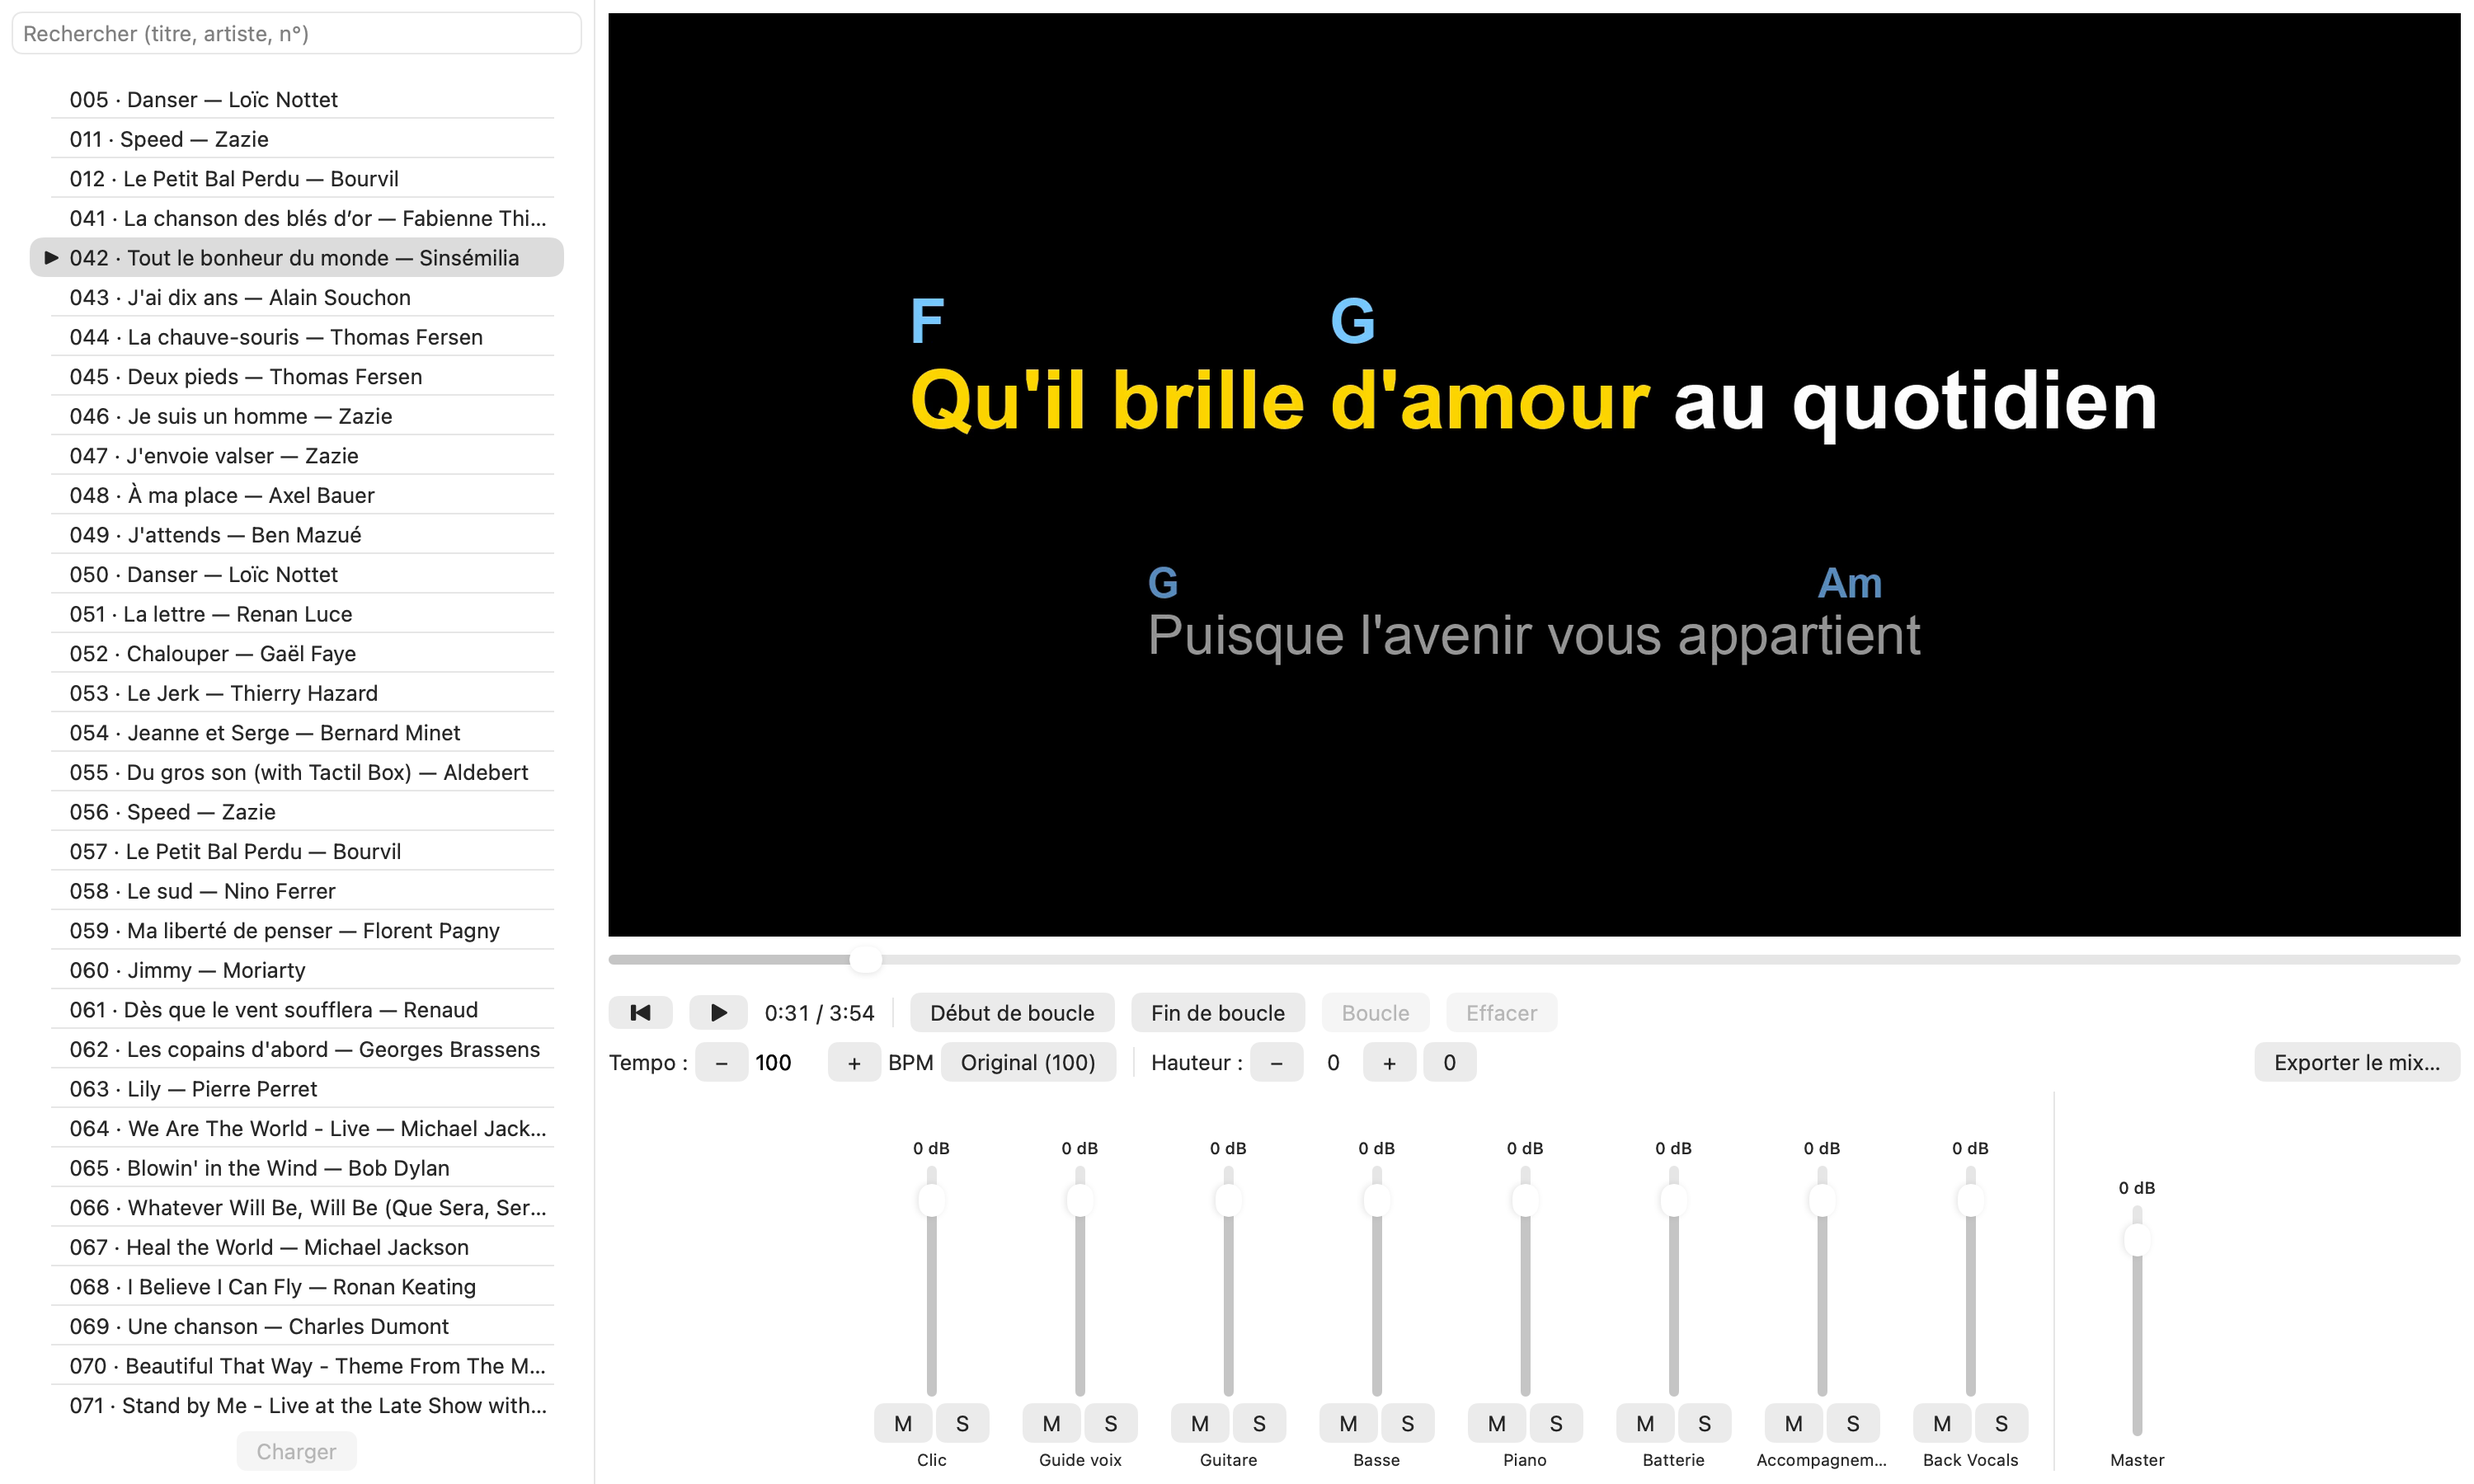
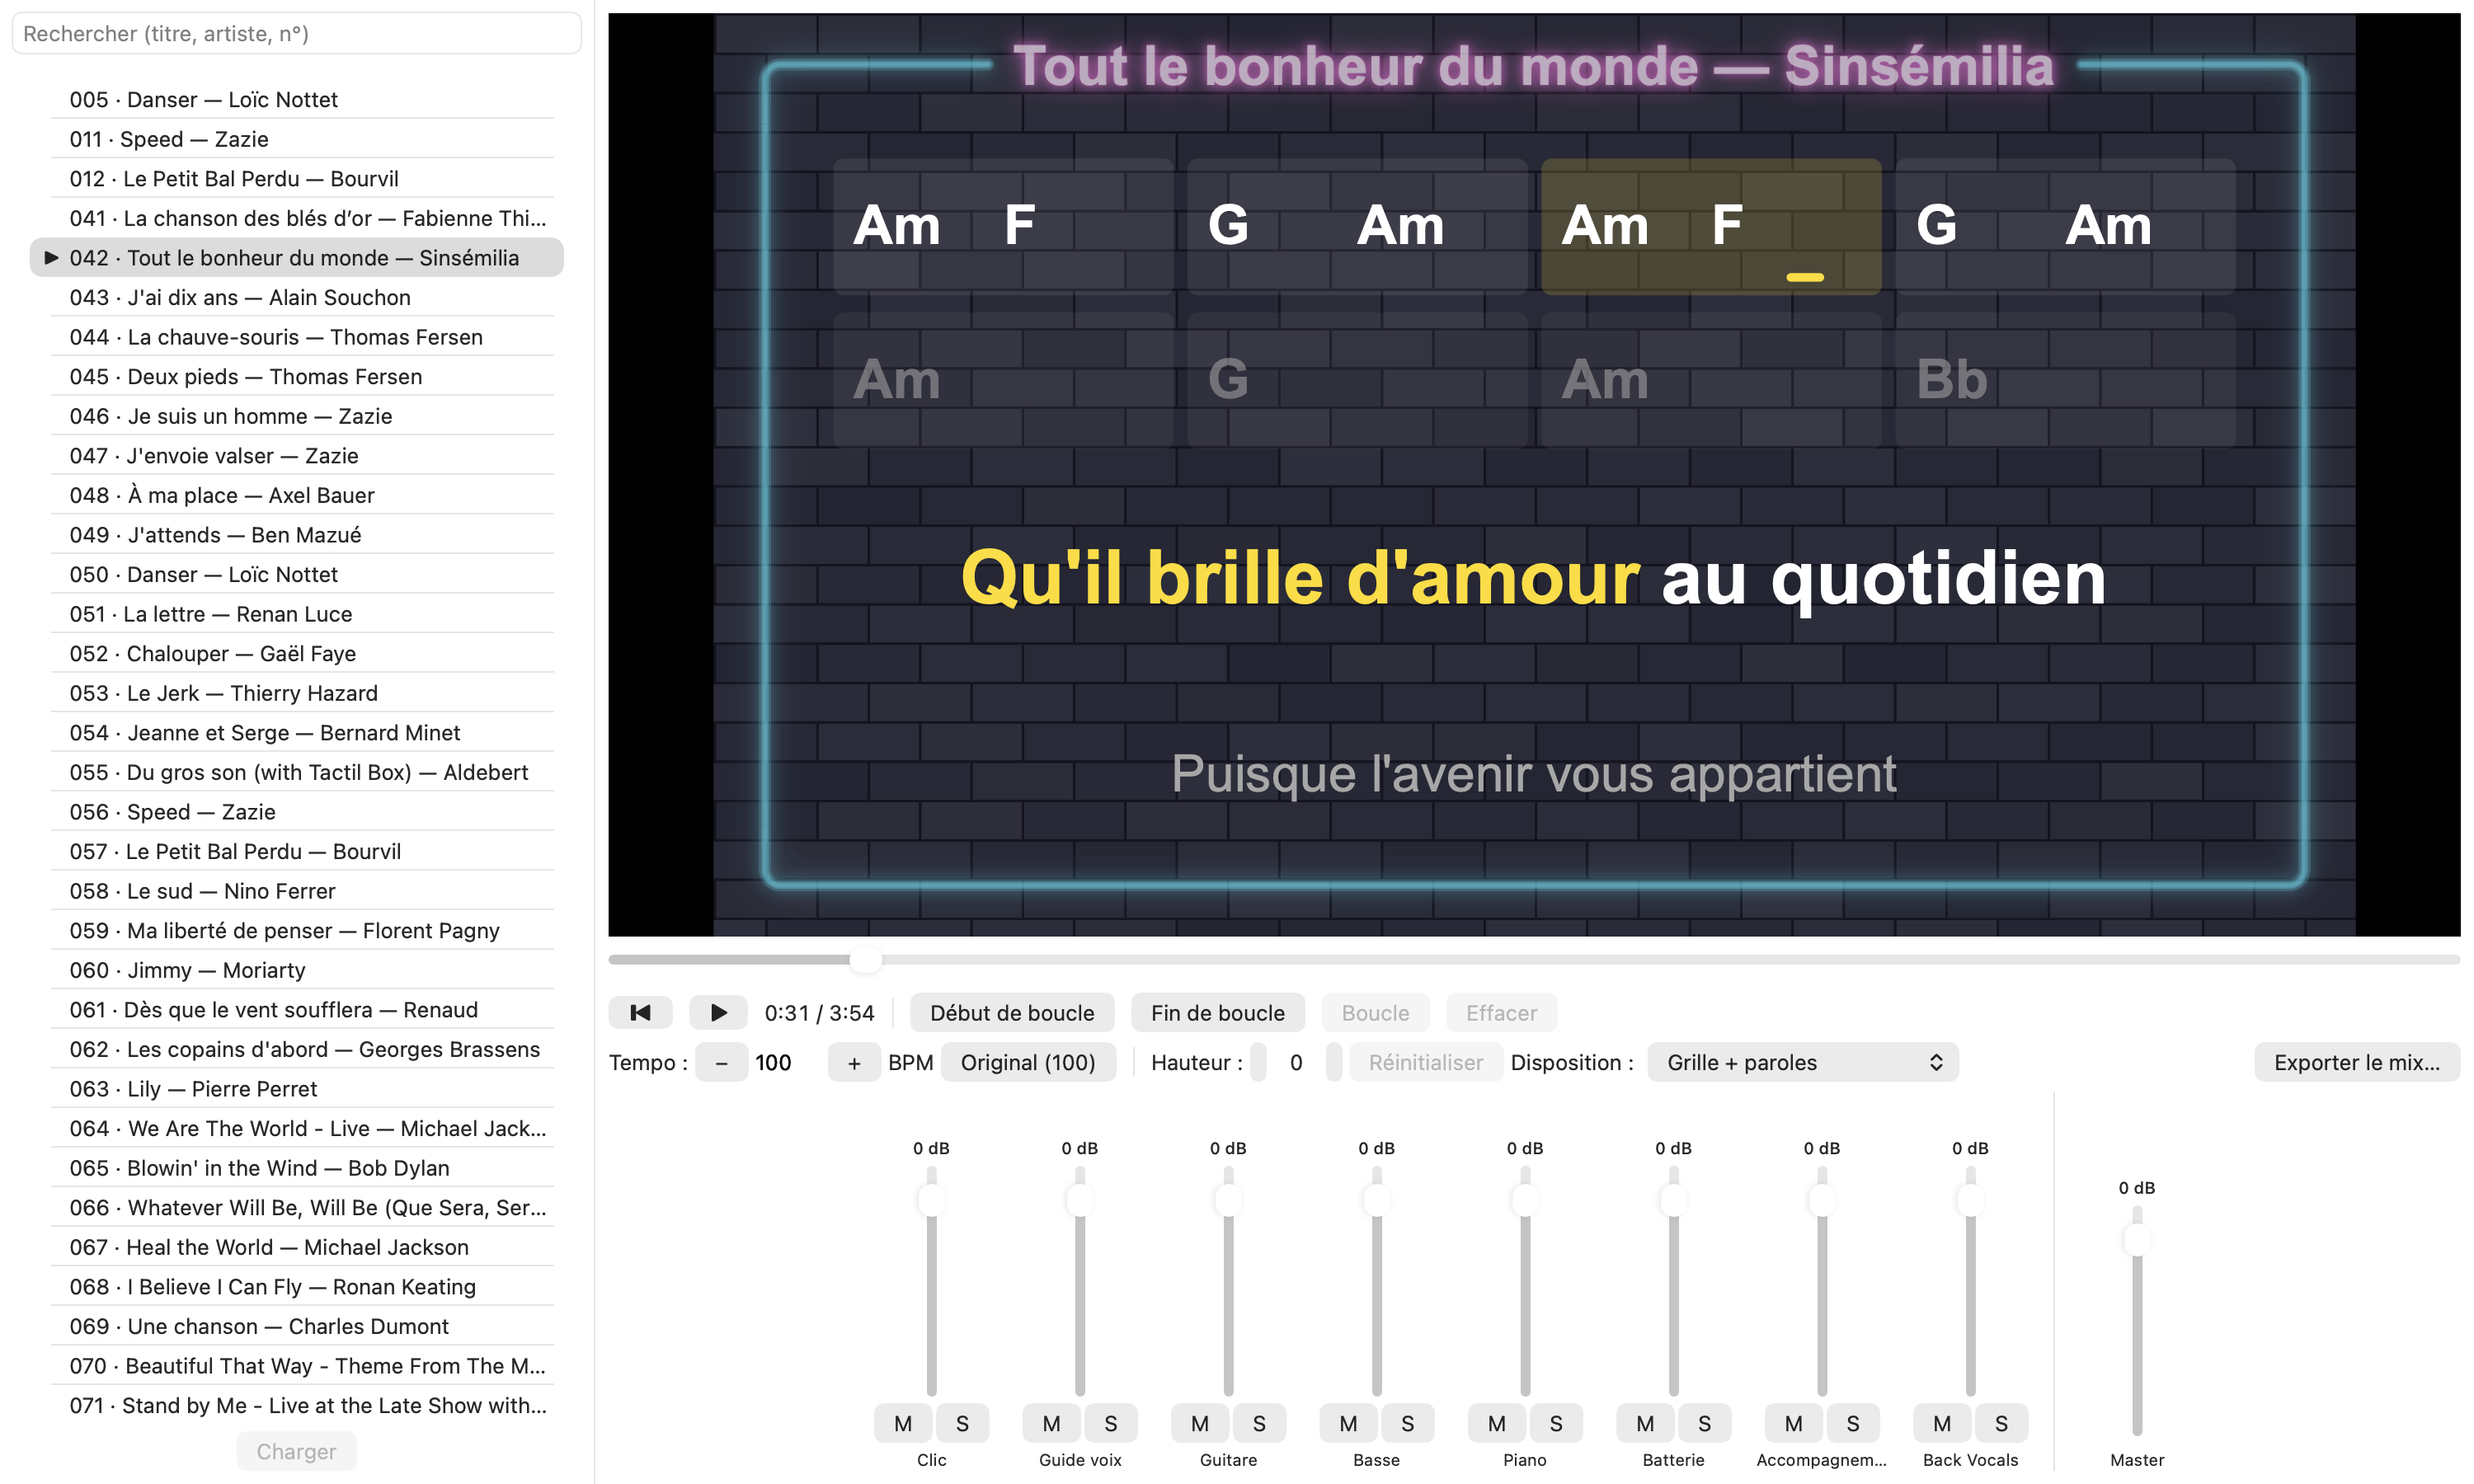
karaifyer: video layout menu in the Karaoké tab; docs; guide screenshot with the live video

diff --git a/karaifyer/Sources/Karaifyer/KaraokeView.swift b/karaifyer/Sources/Karaifyer/KaraokeView.swift
@@ -91,6 +91,12 @@ struct KaraokeView: View {
                         .labelStyle(.iconOnly).buttonStyle(.borderless)
                 }
             }
+            Picker("Vidéo :", selection: $model.videoLayout) {
+                Text("Grille + paroles").tag("grille")
+                Text("Accords sur les paroles").tag("paroles")
+            }
+            .fixedSize()
+            .help("Disposition des vidéos rendues par l'analyse (paroles.mp4, sets Ableton) ; en changer refait les vidéos à la prochaine analyse")
             Button("Rapport") { open(model.pipeline.karaokeHome + "/rapport.html") }
             Button("iReal Pro") {
                 let dir = model.pipeline.karaokeHome + "/ireal"

diff --git a/karaifyer/Sources/Karaifyer/KaraokeModel.swift b/karaifyer/Sources/Karaifyer/KaraokeModel.swift
@@ -14,6 +14,10 @@ final class KaraokeModel: RunDriver {
     var selection: Set<String> = []
     /// The table's search and column sort (click a header; again to reverse).
     var query = ""
+    /// Layout of the videos the analysis renders (paroles.mp4, used by the Ableton sets); read by Pipeline.env.
+    var videoLayout: String = UserDefaults.standard.string(forKey: "videoLayout") ?? "grille" {
+        didSet { UserDefaults.standard.set(videoLayout, forKey: "videoLayout") }
+    }
     var sortOrder: [KeyPathComparator<SongState>] = [KeyPathComparator(\SongState.id)]
     var displayedSongs: [SongState] { SongList.filtered(songs, query: query).sorted(using: sortOrder) }
     var log: [String] = []

diff --git a/docs/guide/GUIDE.md b/docs/guide/GUIDE.md
@@ -249,6 +249,20 @@ Tu peux aussi déposer un texte brut `paroles/<id>.txt` ; il sera calé automati
 
 ---
 
+## La vidéo des paroles
+
+Un cadre néon cyan sur un mur de briques, le titre et l'artiste en néon rose qui respire doucement (avec un léger
+clignotement de temps en temps) ; le cadre pulse sur chaque temps, plus fort sur le premier temps de la mesure.
+
+- **Grille + paroles** (par défaut) : en haut, **2 lignes de 4 mesures** — la ligne active est toujours en haut, la
+  mesure jouée surlignée et un **curseur** qui avance temps par temps ; quand la ligne se termine, celle du dessous
+  monte et les 4 mesures suivantes apparaissent. En bas, **les paroles seules** : la ligne chantée qui s'allume
+  syllabe par syllabe, la suivante en gris.
+- **Accords sur les paroles** : l'ancienne présentation (accords au-dessus des syllabes, rangée de 4 mesures pendant
+  les instrumentaux), sur le même fond.
+- Le menu **Vidéo** de l'onglet Karaoké choisit la disposition des vidéos rendues par l'analyse (`paroles.mp4`, sets
+  Ableton) ; en changer refait les vidéos à la prochaine analyse.
+
 ## 7 bis. Le Lecteur : répéter et vérifier
 
 L'onglet **Lecteur** joue un morceau analysé avec sa vidéo. C'est le Mac qui joue, sur sa sortie audio
@@ -261,7 +275,10 @@ habituelle, pas la XR18. Il sert à répéter chez soi en coupant sa partie, et 
   - cherche par titre, artiste ou numéro (sans te soucier des accents) ;
   - un clic **sélectionne seulement** ; **double-clic**, **Entrée** ou **Charger** ouvre le morceau ;
   - le morceau ouvert est marqué ▶, et un morceau grisé n'est pas encore prêt (le survol dit ce qui manque).
-- **Vidéo :** double-clic pour le **plein écran**, puis double-clic ou Échap pour en sortir.
+- **Vidéo :** dessinée **en direct**, calée sur le son (tempo, boucle et position suivent aussitôt). Double-clic pour
+  le **plein écran**, puis double-clic ou Échap pour en sortir. Un morceau analysé avant cette version garde l'ancienne
+  vidéo (« Réanalyser pour la vidéo en direct »).
+- **Disposition :** « Grille + paroles » (par défaut) ou « Accords sur les paroles », mémorisée.
 - **Transport :** ⏮ retour au début, ▶/⏸, et la **barre de position** à faire glisser pour aller n'importe où.
   **Espace** lance ou arrête la lecture, sauf pendant que tu tapes dans la recherche.
 - **Boucle :**
@@ -277,7 +294,9 @@ habituelle, pas la XR18. Il sert à répéter chez soi en coupant sa partie, et 
 - **Hauteur :**
   - de −6 à +6 demi-tons, sans changer le tempo ;
   - « Réinitialiser » revient à la tonalité d'origine ;
-  - la vidéo garde les accords d'origine, ce qu'un rappel signale.
+  - les accords de la vidéo suivent la transposition (pratique pour trouver où poser un capodastre) ; rien n'est
+    enregistré ;
+- **Exporter le mix… → Vidéo + master** : la vidéo est dessinée telle qu'affichée (disposition, transposition, tempo).
 - **Mixeur :**
   - une tranche par piste (Clic, Guide voix, Guitare, Basse, Piano, Batterie, Accompagnement, Back Vocals),
     chacune avec un fader (de −∞ à +6 dB), **M** (couper) et **S** (solo) ;

diff --git a/karaoke/README.md b/karaoke/README.md
@@ -54,6 +54,11 @@ Détection automatique : à vérifier à l'oreille. Jiang et BTC nomment 7e, sus
 écrit F#m7) ; madmom ne connaît que majeur/mineur. Le code et le modèle de chaque détecteur sont téléchargés à la
 première utilisation, à une version figée (`~/.cache/karaoke/chords/`).
 
+**Vidéo.** L'étape `video` écrit la scène `sortie/<dossier>/video.json` et la fait dessiner par `karaifyer-render`
+(livré dans Karaifyer.app, chemin passé par `KARAOKE_RENDERER` ; sinon `karaifyer/.build/release/karaifyer-render`).
+`KARAOKE_VIDEO_LAYOUT` = `grille` (défaut) ou `paroles`. Sans le moteur Swift, repli sur l'ancien rendu Python (sans
+animation).
+
 **Grilles ouvertes.** `karaoke grilles telecharger` (Chordonomicon + patadata dans `$KARAOKE_HOME/grilles/`),
 `karaoke grilles lier --feuille <feuille.csv>` (identifiants Spotify → colonne `spotify` du manifeste),
 `karaoke grilles fusionner --id 005 [--texte -] --json` (grille collée ou ouverte fusionnée avec la détection).

diff --git a/karaifyer/README.md b/karaifyer/README.md
@@ -20,6 +20,8 @@ Application macOS pour préparer le spectacle karaoké. **Mode d'emploi complet,
   - la vidéo et un mixeur 8 pistes plus master (fader, mute, solo) ;
   - une barre de position, une boucle calée sur les mesures, le tempo en BPM et la transposition ;
   - le réglage de chaque morceau mémorisé ;
+  - la vidéo dessinée en direct (grille de mesures + paroles, ou accords sur les paroles ; accords transposés avec la
+    hauteur) ;
   - l'export du mix (vidéo + master ou master seul, format et qualité au choix).
 
 L'analyse elle-même reste faite par la commande `karaoke` (dossier `karaoke/`), que l'app pilote. Tout marche
